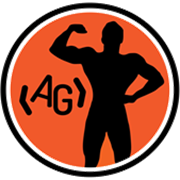
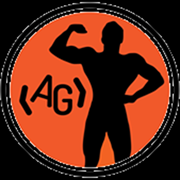
Fundo preto nos icones PWA em vez de transparente/branco

diff --git a/CRM_CONTEXT_BACKUP.md b/CRM_CONTEXT_BACKUP.md
@@ -960,6 +960,11 @@ Dashboard, Jornada, Captação completa, Financeiro).
   verdade**, é só regenerar os arquivos em `icons/` a partir dela
   (mesmo processo de upscale, ou direto se já vier grande) — não precisa
   reabrir manifest/head, só substituir os PNGs.
+- **Ajuste 28/08/2026**: o fundo transparente ao redor do círculo gerava
+  fundo branco no ícone (padrão de várias telas/OS pra PNG transparente).
+  Ícones regenerados com fundo **preto** sólido (composto na hora do
+  upscale). `manifest.json` `background_color` também mudado de `#ffffff`
+  pra `#000000` (cor da splash screen ao abrir o PWA).
 
 ---
 
